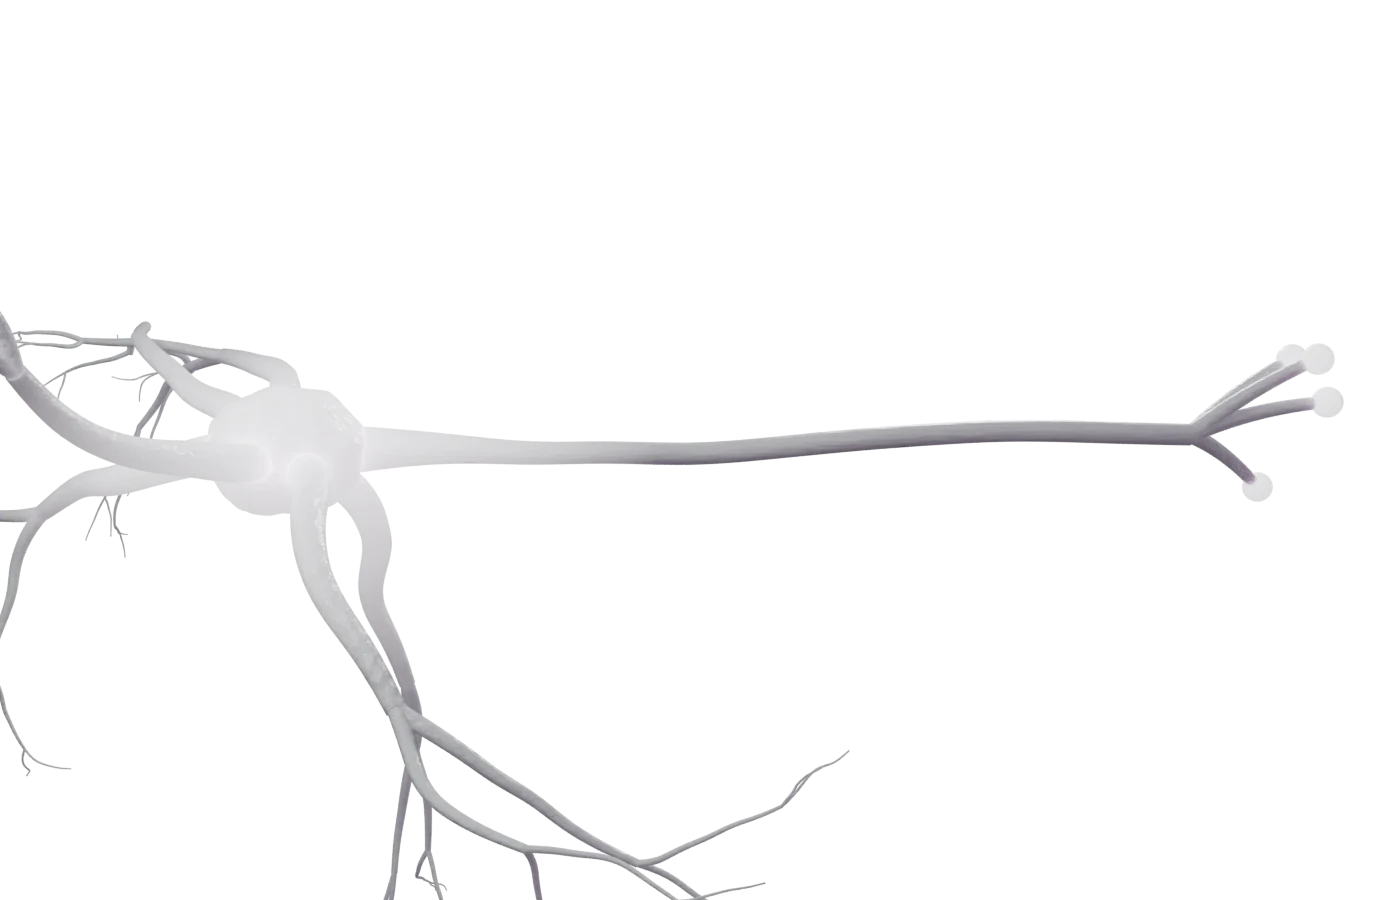
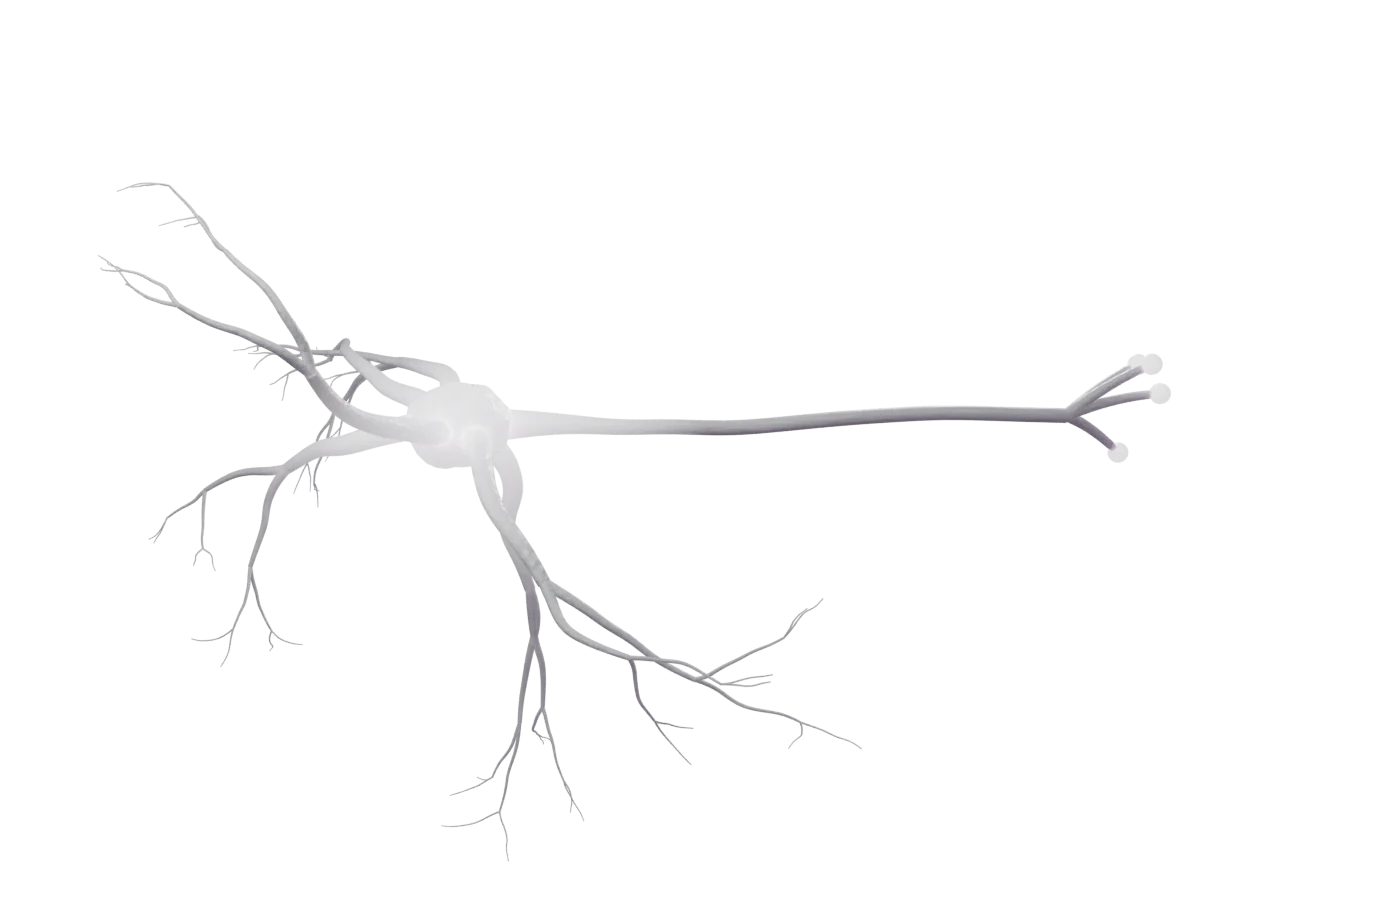
Visor 3D de moléculas más grande y rótulo del receptor siempre visible
Claude-Session: https://claude.ai/code/session_01B1we5wuEhrKDg5Z2p7wPUF

diff --git a/index.html b/index.html
@@ -903,7 +903,7 @@
       if (!reducir && !giroMol.arr && performance.now() - giroMol.ultimo > 2500) giroMol.giro += dt * 0.35;
       let rmax = 0;
       M3.atoms.forEach(a => { rmax = Math.max(rmax, Math.hypot(a.x, a.y, a.z)); });
-      const esc = Math.min(250 / rmax, 62);
+      const esc = Math.min(320 / rmax, 70);
       const p = reducir ? 1 : U.eOut(U.clamp((performance.now() - molDesde) / 900));
       const far = $('verFarmacoforo').checked;
       U.brillo(ctx, 410, 300, 330, '#6B4FD8', 0.3);
@@ -1012,10 +1012,14 @@
         U.caja(ctx, 0, 0, 820, 560, 0, null);
         const g = ctx.createLinearGradient(0, 380, 0, 560); g.addColorStop(0, 'rgba(8,6,16,0)'); g.addColorStop(1, 'rgba(8,6,16,0.85)');
         ctx.fillStyle = g; ctx.fillRect(0, 380, 820, 180);
-        ctx.save(); ctx.strokeStyle = 'rgba(243,238,248,0.7)'; ctx.lineWidth = 1.6;
-        ctx.beginPath(); ctx.moveTo(lx, ly); ctx.lineTo(lx - 120, ly - 90); ctx.lineTo(lx - 140, ly - 90); ctx.stroke(); ctx.restore();
+        const der = lx < 420, ex = lx + (der ? 120 : -120), ey = ly - 90;
+        ctx.save(); ctx.strokeStyle = 'rgba(243,238,248,0.8)'; ctx.lineWidth = 1.6;
+        ctx.beginPath(); ctx.moveTo(lx, ly); ctx.lineTo(ex, ey); ctx.lineTo(ex + (der ? 20 : -20), ey); ctx.stroke(); ctx.restore();
         U.punto(ctx, lx, ly, 5, P.drug);
-        U.txt(ctx, 'Morfina en el sitio de unión', lx - 150, ly - 84, { size: 20, weight: 700, align: 'right' });
+        const etq = 'Morfina en el sitio de unión', wE = U.medir(ctx, etq, { size: 20, weight: 700 });
+        const x0 = der ? ex + 26 : ex - 26 - wE;
+        U.caja(ctx, x0 - 10, ey - 22, wE + 20, 34, 8, 'rgba(8,6,16,0.8)');
+        U.txt(ctx, etq, x0, ey + 2, { size: 20, weight: 700 });
       }
       U.txt(ctx, r.id === 'nop' ? 'NOP' : r.letra, 790, 80, { family: r.id === 'nop' ? Fm.display : Fm.greek, italic: r.id !== 'nop', weight: 700, size: r.id === 'nop' ? 56 : 84, color: r.color, align: 'right', glow: U.hexA(r.color, 0.5) });
       U.txt(ctx, 'Gi/o activa → ↓ AMPc, ↑ K⁺, ↓ Ca²⁺', 24, 520, { family: Fm.mono, size: 18, color: P.accent });
